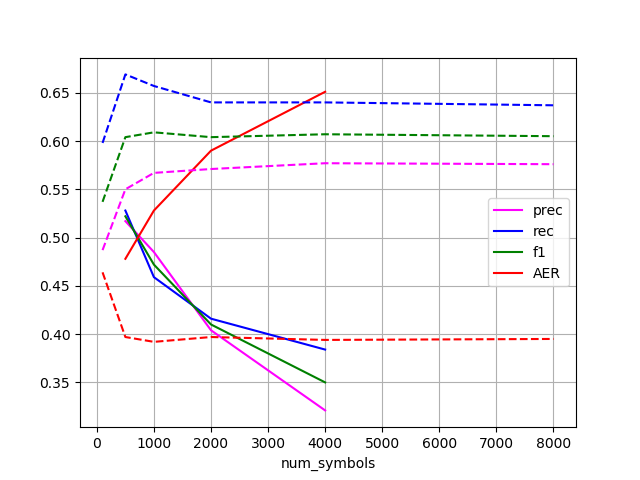
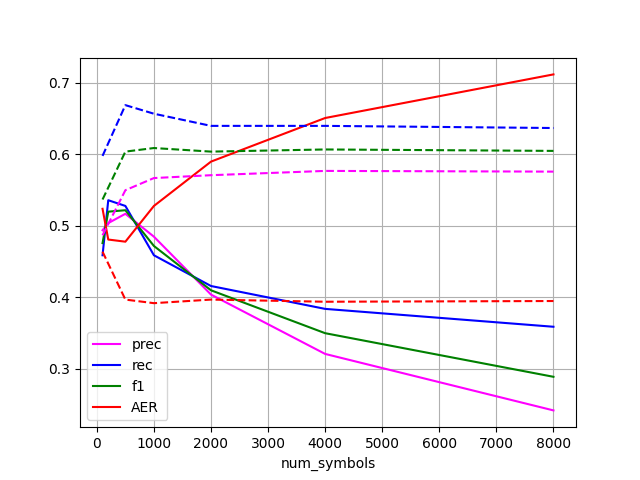
merge_dropout: generalize to all thresholds and result interpretation

diff --git a/merge_dropout.py b/merge_dropout.py
@@ -13,11 +13,10 @@ from calc_align_score import *
 
 
 def merge_dropout_alignments():
-    print(f"Merging dropouts for merge_threshold={merge_threshold}")
     union_merge, inter_merge, thres_merge = {}, {}, {}
 
     os.chdir(join(bpedir, 'fastalign'))
-    for num_symbols in tqdm(all_symbols):
+    for num_symbols in tqdm(all_symbols, desc=f"merge_dropout: num_symbols={all_symbols}, union, inter, thres"):
         union_merge[num_symbols], inter_merge[num_symbols], thres_merge[num_symbols] = [], [], []
 
         for i in range(dropout_repetitions):
@@ -40,24 +39,24 @@ def merge_dropout_alignments():
         # write to output
         unionfile = codecs.open(str(num_symbols)+'_union.wgdfa', 'w')
         interfile = codecs.open(str(num_symbols)+'_inter.wgdfa', 'w')
-        thresfile = codecs.open(str(num_symbols)+'_thres.wgdfa', 'w')
+        thresfiles = {merge_t: codecs.open(str(num_symbols)+'_thres_'+str(merge_t)+'.wgdfa', 'w') for merge_t in merge_threshold}
 
         for i in range(len(union_merge[num_symbols])):
             unionfile.write(f"{i}\t{' '.join(union_merge[num_symbols][i])}\n")
             interfile.write(f"{i}\t{' '.join(inter_merge[num_symbols][i])}\n")
 
-            # get alignments more common than the merge_threshold % 
-            common_aligns = [k for k in thres_merge[num_symbols][i] 
-                             if thres_merge[num_symbols][i][k] > merge_threshold * dropout_repetitions]
-            thresfile.write(f"{i}\t{' '.join(common_aligns)}\n")
+            # get alignments more common than the merge_threshold %
+            for merge_t in merge_threshold:
+                common_aligns = [k for k in thres_merge[num_symbols][i] 
+                                if thres_merge[num_symbols][i][k] > merge_t * dropout_repetitions]
+                thresfiles[merge_t].write(f"{i}\t{' '.join(common_aligns)}\n")
     return
 
 
 def calc_score_merges():
-    print(f"Calculating merge scores for merge_threshold={merge_threshold}")
     probs, surs, surs_count = load_gold(goldpath)
     baseline_df = pd.read_csv(join(datadir, 'normal_bpe/scores/scores_'+source+'_'+target+'.csv'))
-    for merge_type in ['union', 'inter', 'thres']:
+    for merge_type in ['union', 'inter']:
         scores = []
         for num_symbols in all_symbols:
             mergefilepath = join(bpedir, 'fastalign', str(num_symbols)+'_'+merge_type+'.wgdfa')
@@ -67,11 +66,24 @@ def calc_score_merges():
             scores.append(score)
 
        	df = pd.DataFrame(scores, columns=['num_symbols', 'prec', 'rec', 'f1', 'AER']).round(decimals=3)
-        scoredir = join(bpedir, 'scores', 'scores') + ('_ns' if not space else '')
-        if merge_type == 'thres':
-            scoredir += '_' + str(merge_threshold) + '_' + merge_type
-        else:
-            scoredir += '_' + merge_type
+        scoredir = join(bpedir, 'scores', 'scores') + ('_ns' if not space else '') + '_' + merge_type
+        
+        print(f"Scores saved into {scoredir}")
+        df.to_csv(scoredir+'.csv', index=False)
+        plot_scores(df, baseline_df, scoredir)
+
+    # threshold case, iterate all merge_threshold|saved
+    for merge_t in merge_threshold:
+        scores = []
+        for num_symbols in all_symbols:
+            mergefilepath = join(bpedir, 'fastalign', str(num_symbols)+'_thres_'+str(merge_t)+'.wgdfa')
+
+            score = [int(num_symbols)]
+            score.extend(list(calc_score(mergefilepath, probs, surs, surs_count)))
+            scores.append(score)
+
+        df = pd.DataFrame(scores, columns=['num_symbols', 'prec', 'rec', 'f1', 'AER']).round(decimals=3)
+        scoredir = join(bpedir, 'scores', 'scores') + ('_ns' if not space else '') + '_' + str(merge_t) + '_thres'
         
         print(f"Scores saved into {scoredir}")
         df.to_csv(scoredir+'.csv', index=False)

diff --git a/settings.py b/settings.py
@@ -9,7 +9,7 @@ source_bpe, target_bpe = False, False # both can't be true at the same time
 
 dropout = 0.1 # 0
 dropout_repetitions = 10
-merge_threshold = 0.3 # 0.3, 0.5, 0.7, 0.9 # if alignments are present in >X% of files, they're accepted
+merge_threshold = [0.3, 0.5, 0.7, 0.9] # if alignments are present in >X% of files, they're accepted
 avgs = [3, 5, 7, 10] # average dropout scores, avg of 3, 5, ...
 
 rootdir = os.getcwd()
@@ -25,4 +25,4 @@ atools_path = join(rootdir, "tools/fast_align/build/atools")
 
 space = False
 num_all_symbols = 10000 #10000
-all_symbols = [500, 1000, 2000, 4000] # [2000, 4000]
+all_symbols = [100, 200, 500, 1000, 2000, 4000, 8000]

diff --git a/README.md b/README.md
@@ -4,12 +4,10 @@ Master thesis repo
 
 ## tasks
 
-* [ ] **interpret results**
+* [X] **interpret results**
 * [ ] learn_bpe: substitute number for digit when merging?
-* [X] replace sep token by 'sep', put in settings?
-* [ ] merge_dropout: iterate through thres, don't calculate union and int every time
-* [ ] calc_align_score: add legend to tqdm? script name, lang, num_symbols
-* [ ] calc_align_score: only plot symbols present in the alignment files, not the baselines. otherwise we get [500, 8000] for all
+* [X] merge_dropout: iterate through thres, don't calculate union and int every time
+* [X] add legend to tqdm? script name, lang, num_symbols
 * [ ] dropout only on one side? source_bpe -> source_dropout?
 
 ### BPE improvement
@@ -25,9 +23,10 @@ Master thesis repo
 ### no space
 
 * results:
+  * **best results at num_symbols=500, with prec=0.621, rec=0.456, f1=0.523. visible at thres=0.7 specifically**
   * at smallest threshold (0.3), recall=0.533 for all symbols, precision decreases for more symbols
   * the bigger the threshold, the worse the recall. at thres=0.9, precision isn't bad.
-  * union score has very high recall, very low precision
+  * union score has very high recall, very low precision. makes sense, there's many-to-many alignment among words
   * intersection score has very high precision, very low recall
 * we have no spaces so even f1=0.5 would be great. we'd be aligning words even if we don't know they exist. then we could go for more precision-based model or recall-based model. alignment w/o tokenization
 
